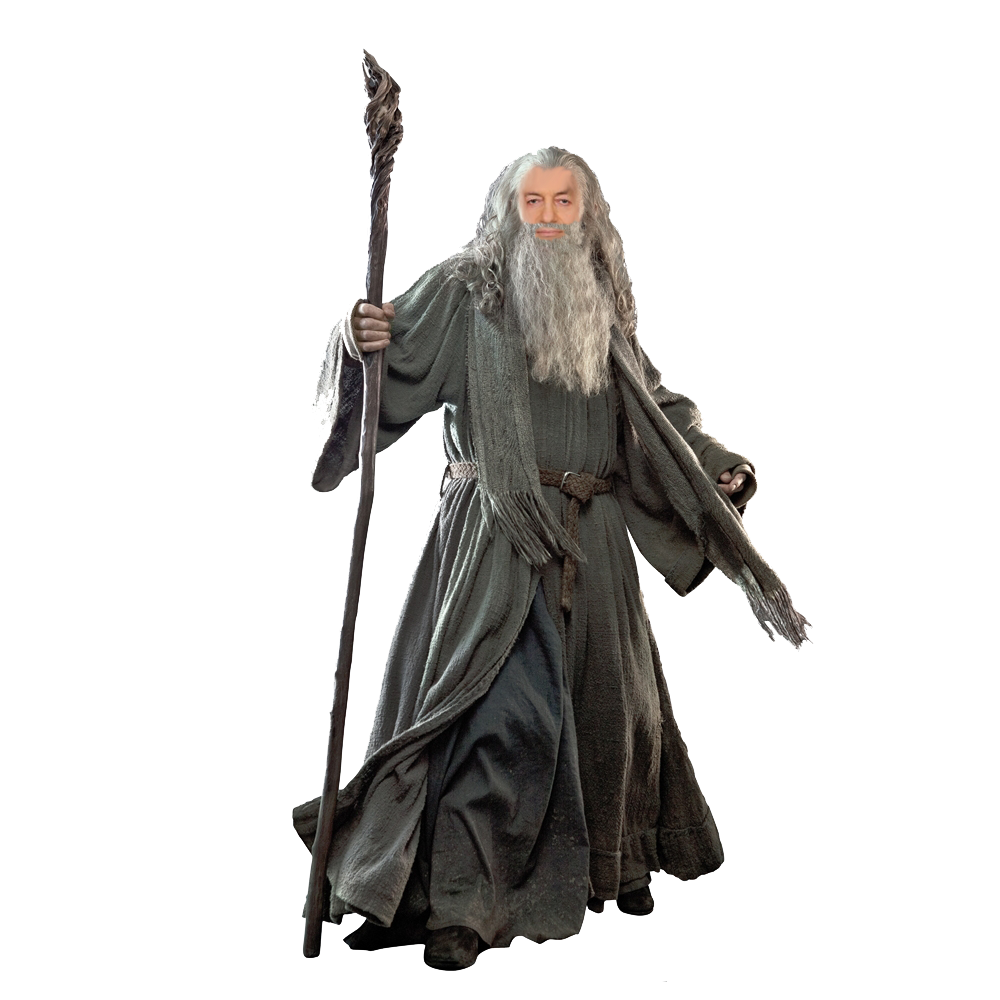
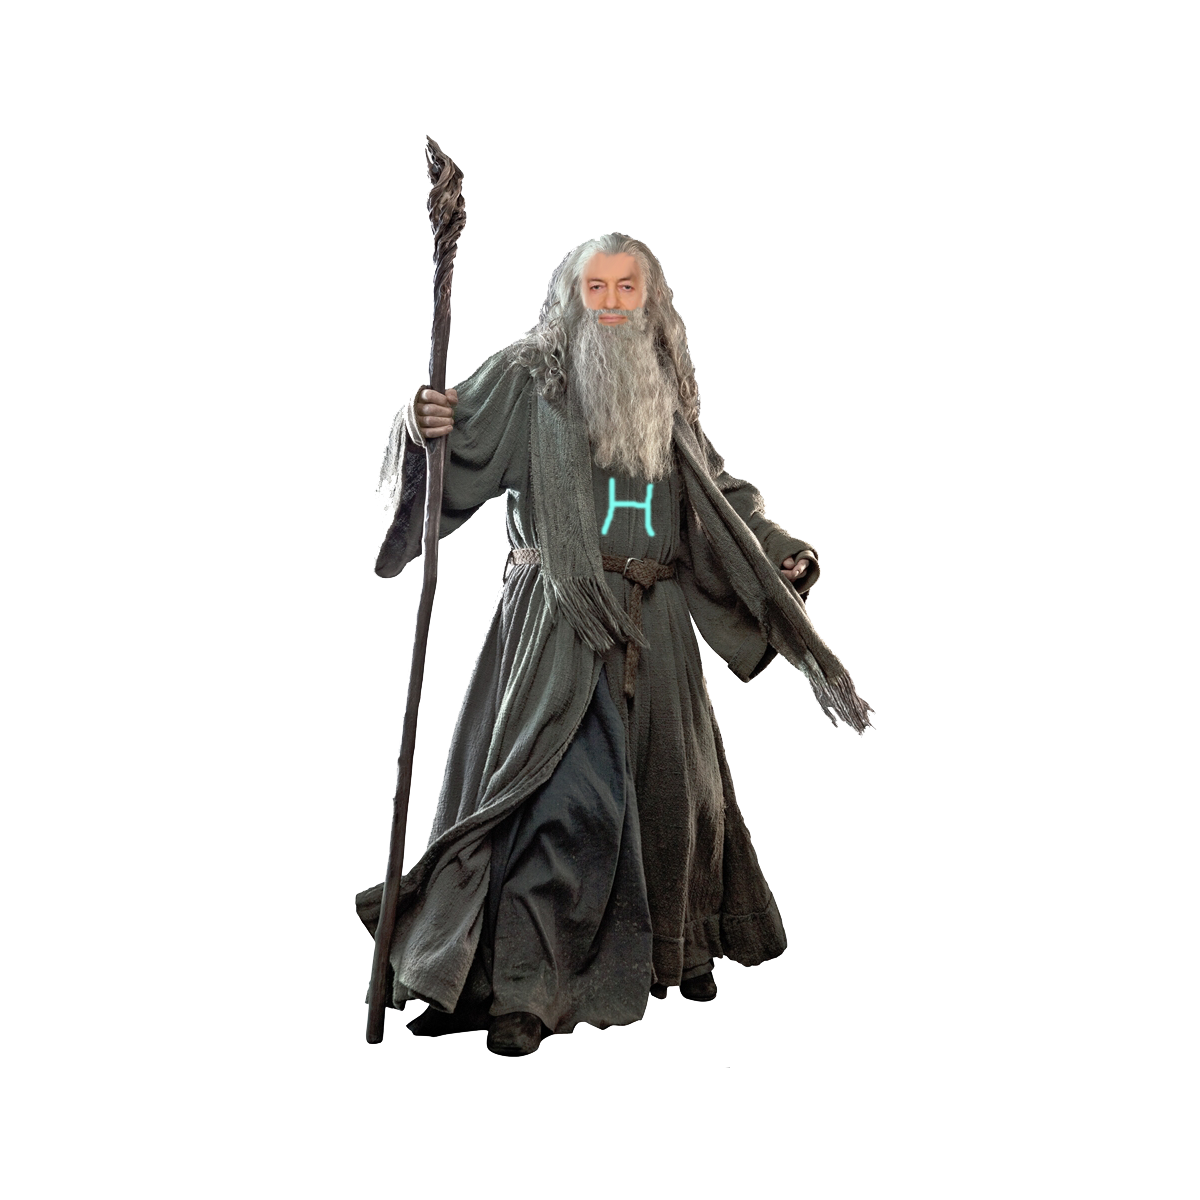
yo

Changed region(s): [[0.279, 0.062, 0.806, 0.992]]

diff --git a/SOURCE/NYUCodebase/main.cpp b/SOURCE/NYUCodebase/main.cpp
@@ -67,7 +67,7 @@ bool p2secondJump = false;
 // Game Object containers
 std::vector<Entity> players;
 std::vector<Entity> blocks;
-
+Entity Hadimioglu;
 
 // RENDERING AND UPDATING CODE____________________________________________________________________________________________________________________________
 void RenderMainMenu() {
@@ -76,17 +76,19 @@ void RenderMainMenu() {
 	modelMatrix.Translate(-1.0f, 2.0f, 0.0f);
 	program->setModelMatrix(modelMatrix);
 	ut.DrawText(program, fontTexture, "IVEN VS CHUK", 0.2f, 0.0001f);
-	modelMatrix.Translate(0.5f, -0.5f, 0.0f);
+	
+	modelMatrix.identity();
+	modelMatrix.Translate(-0.5f, -1.25f, 0.0f);
 	program->setModelMatrix(modelMatrix);
-	ut.DrawText(program, fontTexture, "CONTROLS", 0.2f, 0.0001f);
+	Hadimioglu.draw(program);
 
 	modelMatrix.identity();
-	modelMatrix.Translate(-2.6f, 0.0f, 0.0f);
+	modelMatrix.Translate(-2.6f, -1.5f, 0.0f);
 	program->setModelMatrix(modelMatrix);
 	ut.DrawText(program, fontTexture, "USE ARROW/WASD KEYS TO MOVE", 0.2f, 0.0001f);
 
 	modelMatrix.identity();
-	modelMatrix.Translate(-1.0f, -1.0f, 0.0f);
+	modelMatrix.Translate(-1.0f, -1.75f, 0.0f);
 	program->setModelMatrix(modelMatrix);
 	ut.DrawText(program, fontTexture, "1/B TO ATTACK", 0.2f, 0.0001f);
 
@@ -327,6 +329,8 @@ int main(int argc, char *argv[])
 
 	//Create GLUint textures
 	fontTexture = ut.LoadTexture("font1.png");
+	HALDUN = ut.LoadTexture("HaldunMode.png");
+	Hadimioglu = Entity(0.0f, 0.23f, 0.0f, 0.0f, 1.0f, 1.0f, 0, 0, { HALDUN }, 21.5f, 21.5f, WIZARD);
 
 	playerSpriteTexture.push_back(ut.LoadTexture("ChukStanding1.png"));//Standing: 0-1
 	playerSpriteTexture.push_back(ut.LoadTexture("ChukStanding2.png"));
@@ -345,8 +349,8 @@ int main(int argc, char *argv[])
 	powerupTexture = ut.LoadTexture("cherry.png");
 
 	//Initialize entities
-	players.push_back(Entity(5.0f, -1.0f, 0.0f, 0.0f, 1.0f, 1.0f, 0, 0, playerSpriteTexture, 7.0f, 7.0f, PLAYER));//Chuk
-	players.push_back(Entity(0.0f, -1.0f, 0.0f, 0.0f, 1.0f, 1.0f, 0, 0, player2SpriteTexture, 5.0f, 5.0f, PLAYER));//Iven
+	players.push_back(Entity(5.0f, -1.0f, 0.0f, -0.15f, 1.0f, 1.0f, 0, 0, playerSpriteTexture, 7.0f, 7.0f, PLAYER));//Chuk
+	players.push_back(Entity(0.0f, -1.0f, 0.0f, -0.05f, 1.0f, 1.0f, 0, 0, player2SpriteTexture, 5.0f, 5.0f, PLAYER));//Iven
 	players[0].isStatic = false;
 	players[0].acceleration[1] = -9.8f;
 	players[1].isStatic = false;

diff --git a/SOURCE/NYUCodebase/Utils.h b/SOURCE/NYUCodebase/Utils.h
@@ -20,7 +20,7 @@
 #define RESOURCE_FOLDER "NYUCodebase.app/Contents/Resources/"
 #endif
 
-enum Type { PLAYER, BLOCK };
+enum Type { PLAYER, BLOCK, WIZARD };
 
 class Ut {
 public:
